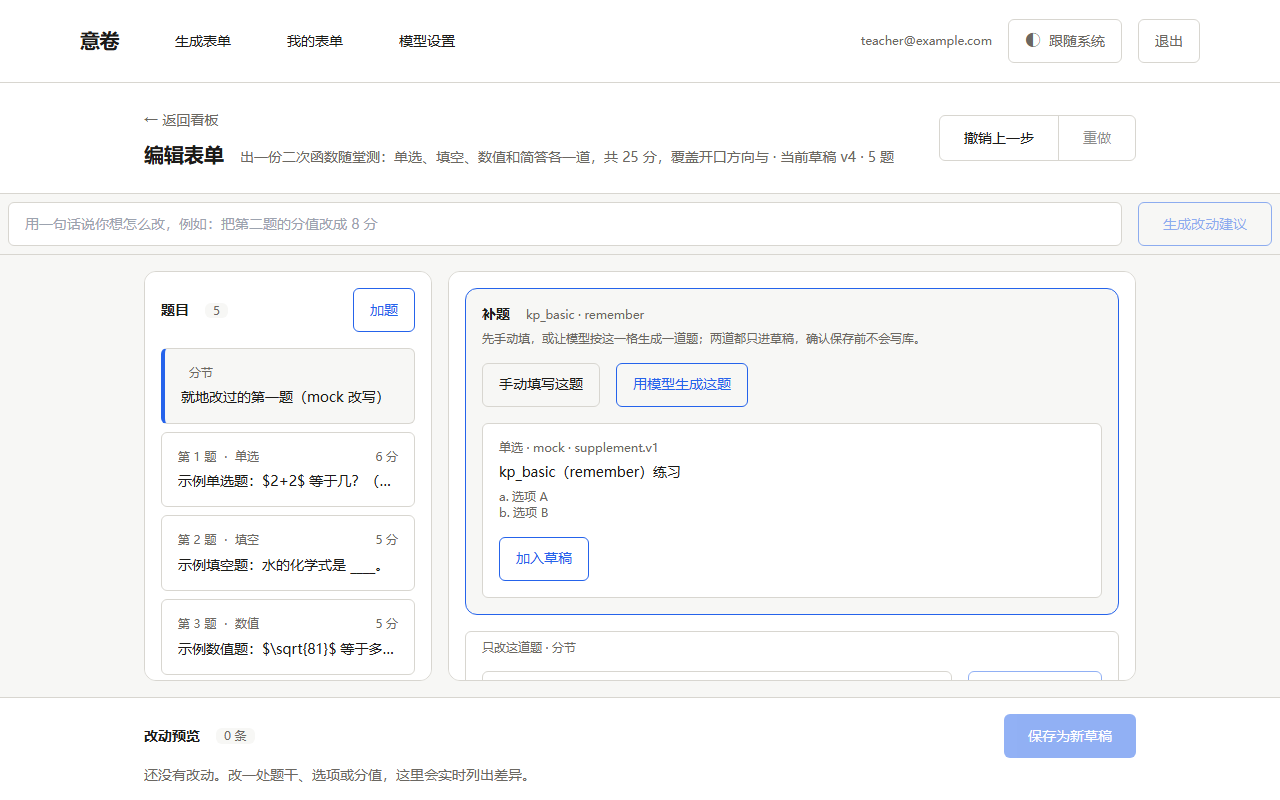
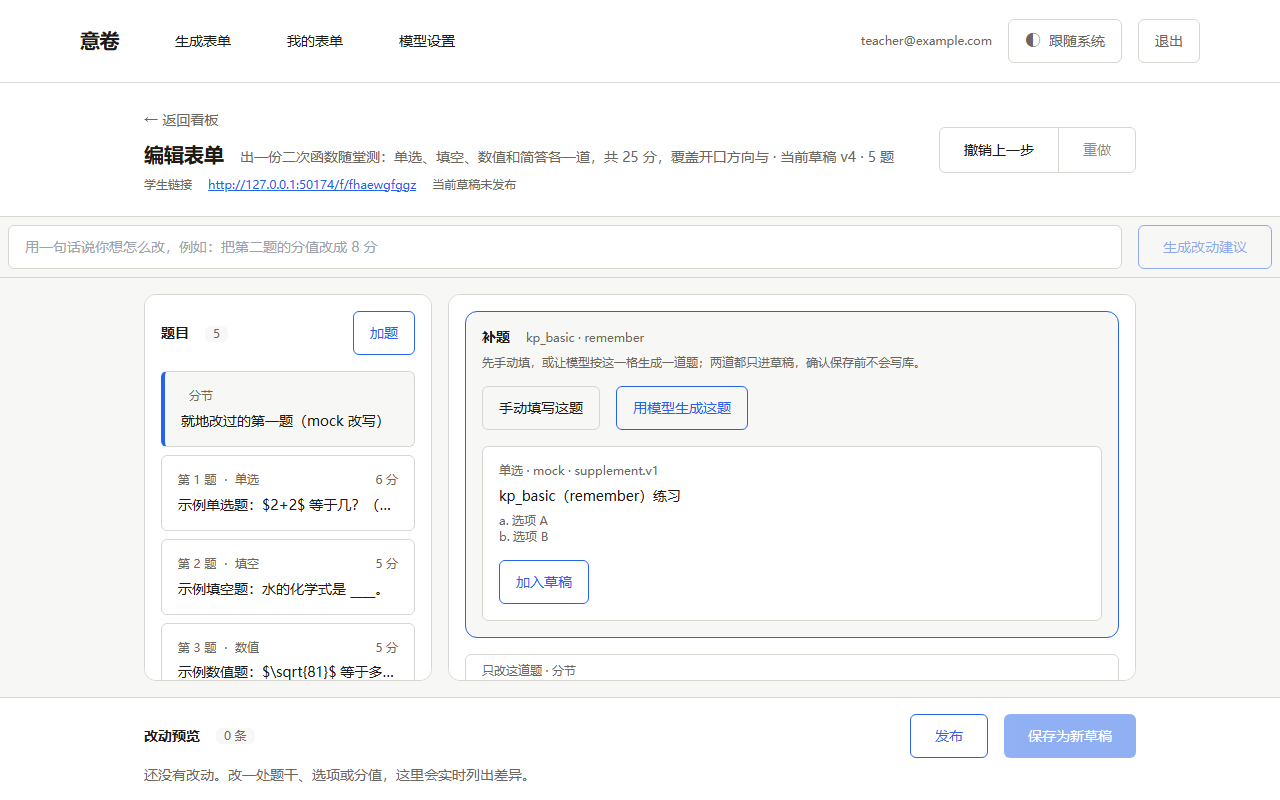
test(evidence): 重跑实体保存草稿与编辑器发布 [P27]
19 步全绿、31 个产物。第 3 步改为「保存为草稿 → 去编辑并发布 → 发布」，03a 截图现在是发布后的编辑器；问卷步骤复用同一链路。README 记录本轮时间与两步发布口径。

diff --git a/docs/evidence/README.md b/docs/evidence/README.md
@@ -2,7 +2,7 @@
 
 这个目录回答评审唯一需要机器核验的问题：**在我说的那个提交上，一条完整的链能不能跑起来。**
 
-一条链 = 教师说一句需求 → 流式生成卷子 → 保存并发布 → 学生扫短链在手机上填 → 判分 → 教师看板看见这条提交。
+一条链 = 教师说一句需求 → 流式生成卷子 → 保存草稿 → 编辑器发布 → 学生扫短链在手机上填 → 判分 → 教师看板看见这条提交。
 
 ## 两种证据，不要混用
 
@@ -39,11 +39,11 @@ node scripts/browser-closed-loop.mjs   # 期望：每步截图进本目录 + std
 
 | 项 | 值 |
 |---|---|
-| commit | `git log -1 -- docs/evidence/23-item-editor.png` 指向的提交（本次运行改动的编辑器截图；`01-login.png` 与上次字节一致，不随每次运行产生新提交） |
-| 时间 | 2026-11-05 14:23（Asia/Shanghai） |
+| commit | `git log -1 -- docs/evidence/03a-publish-panel.png` 指向的提交（本次运行改动的「保存草稿 → 编辑器发布」截图；`01-login.png` 与上次字节一致，不随每次运行产生新提交） |
+| 时间 | 2026-11-05 14:39（Asia/Shanghai） |
 | 浏览器 | Chrome 156.0.8078.80（headless=new，CDP 驱动） |
 | 服务 | `LLM_MODE=mock`；`NODE_ENV=production` 的同源 Node 服务托管 `web/dist`，端口临时分配 |
-| 结果 | 19 步全绿：**未登录打开 `/dashboard` 先显示登录表单且地址不改写，登录后回到看板** → 生成（需求 → **蓝图卡可就地改标题、四档难度和题型和一致 → 按蓝图生成**，时间线出现 plan 与蓝图对照；**预览卡「编辑这题」就地改第一题题干，收起后立即显示新文案**）→ 发布（发布内容沿用改过的预览）→ 学生页作答 → 提交 `20 / 25` → 看板新增 1 行、每题正确率全 `100%` 且覆盖矩阵渲染 → 教师批改后 `24 / 25`（**批改面板就在被点那行的下一行，不是页面底部**）→ 编辑器一句话改、撤销再重做 → 含糊需求触发 3 条追问，跳过追问后仍走蓝图确认 → **生成页选「问卷」→ 发布 → 手机填写 → 回收看板（无均分/满分/`0/0`）→ CSV** → **打印版考卷（含答案开关、打印媒体隐藏外壳，`Page.printToPDF` 出 PDF）** → **答案解析开关（教师开启后学生重交，成功页出现正确答案与解析）** → **暗色模式（系统深色自动生效、三态循环、浅/深底色实测）** → **关掉「先看蓝图」开关后直接生成（无蓝图卡、时间线不出现 plan）** → **单题编辑（选中第一道题改正确项、diff 只列本题、保存后其余题逐字节不变；单题建议标题为「仅第 1 题」、采用后仍停在本题）** → **覆盖矩阵补题（点单元格进编辑页、模型回一道候选题、加入草稿并保存；再点另一格走手动模板）** → **AI 辅助评分（逐表单开启后，批改面板出现按钮，点一下只回建议分与理由，不自动保存）** → **模型设置（网页切模式、填端点/模型/Key，保存后 API 与页面都不回显 Key；留空再保存仍保留原 Key）** → **参考试卷（粘贴文本 → 蓝图卡出现参考回执，难度输入改了题型和同步变化；mock 下搜索回执为未启用，`plan` 响应带 `styleNotes` 且不回显原文）**；首页响应头含 `script-src 'self'` 与 `style-src-attr 'unsafe-inline'` |
+| 结果 | 19 步全绿：**未登录打开 `/dashboard` 先显示登录表单且地址不改写，登录后回到看板** → 生成（需求 → **蓝图卡可就地改标题、四档难度和题型和一致 → 按蓝图生成**，时间线出现 plan 与蓝图对照；**预览卡「编辑这题」就地改第一题题干，收起后立即显示新文案**）→ **保存草稿（生成页只落草稿，不发布）→ 编辑器发布（发布内容沿用改过的预览）** → 学生页作答 → 提交 `20 / 25` → 看板新增 1 行、每题正确率全 `100%` 且覆盖矩阵渲染 → 教师批改后 `24 / 25`（**批改面板就在被点那行的下一行，不是页面底部**）→ 编辑器一句话改、撤销再重做 → 含糊需求触发 3 条追问，跳过追问后仍走蓝图确认 → **生成页选「问卷」→ 保存草稿 → 编辑器发布 → 手机填写 → 回收看板（无均分/满分/`0/0`）→ CSV** → **打印版考卷（含答案开关、打印媒体隐藏外壳，`Page.printToPDF` 出 PDF）** → **答案解析开关（教师开启后学生重交，成功页出现正确答案与解析）** → **暗色模式（系统深色自动生效、三态循环、浅/深底色实测）** → **关掉「先看蓝图」开关后直接生成（无蓝图卡、时间线不出现 plan）** → **单题编辑（选中第一道题改正确项、diff 只列本题、保存后其余题逐字节不变；单题建议标题为「仅第 1 题」、采用后仍停在本题）** → **覆盖矩阵补题（点单元格进编辑页、模型回一道候选题、加入草稿并保存；再点另一格走手动模板）** → **AI 辅助评分（逐表单开启后，批改面板出现按钮，点一下只回建议分与理由，不自动保存）** → **模型设置（网页切模式、填端点/模型/Key，保存后 API 与页面都不回显 Key；留空再保存仍保留原 Key）** → **参考试卷（粘贴文本 → 蓝图卡出现参考回执，难度输入改了题型和同步变化；mock 下搜索回执为未启用，`plan` 响应带 `styleNotes` 且不回显原文）**；首页响应头含 `script-src 'self'` 与 `style-src-attr 'unsafe-inline'` |
 | 截图与产物 | `01-login.png` … `31-plan-reference.png` 共 30 张截图 + `16-print-sheet.pdf`，全部同一次生产构建运行 |
 
 第 1 步是「登录优先」的界面级证据：匿名打开 `/dashboard` 时页面显示登录表单，但地址保持
@@ -151,6 +151,12 @@ R-08 的 CSP 响应头断言已进入闭环脚本；受限 Windows 环境下 Chr
 分节题型两项对账，时间线的「蓝图对照」会点名到题（例如「四、解答题里的 q14 是填空，
 该节应为简答」）；`generate.v6/v7` 要求分节逐节兑现、`quotas` 命中、`knowledgePoint`
 必须写 id。mock 闭环仍 19 步全绿，第 2 步的对照文案随新的 `isExact` 口径更新。
+
+**2026-11-05 14:39 那轮的改动（P27 先保存后发布）**：生成页的按钮从「保存并发布」改成
+「保存为草稿」，保存后给出「去编辑并发布」入口；发布按钮移到编辑器底栏，草稿有未保存
+改动时禁用并提示「先保存当前改动，再发布」，发布后表头显示学生链接与「已发布当前草稿」。
+闭环第 3 步改为真实的两步操作（保存草稿 → 编辑器发布），不再走「生成页一键发布」；
+`03a-publish-panel.png` 现在是发布后的编辑器，问卷步骤复用同一条保存/发布链路。
 
 **2026-10-27 23:38 那轮的改动**：
 1. mock 脚本的简答从「无分值」改成 5 分（R-01）：没有这道带分值的简答，
